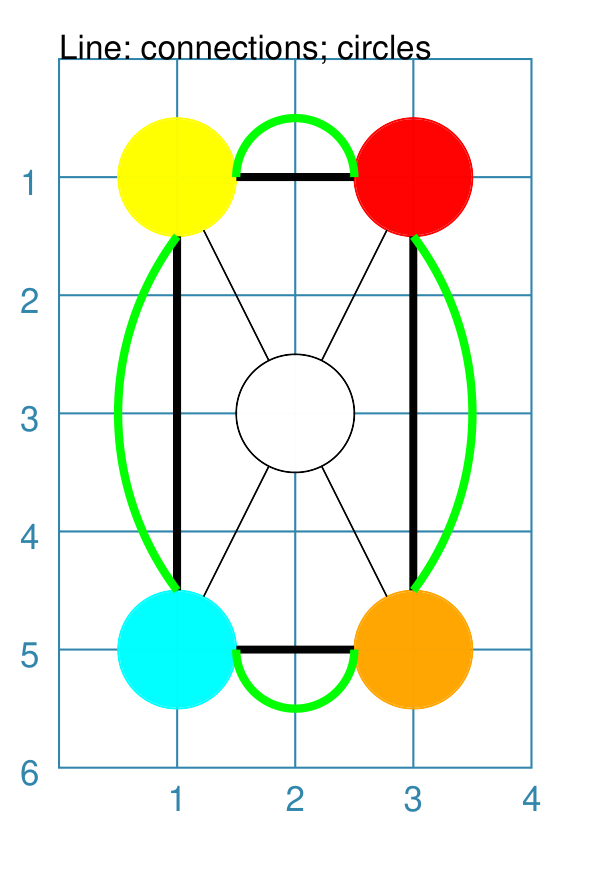
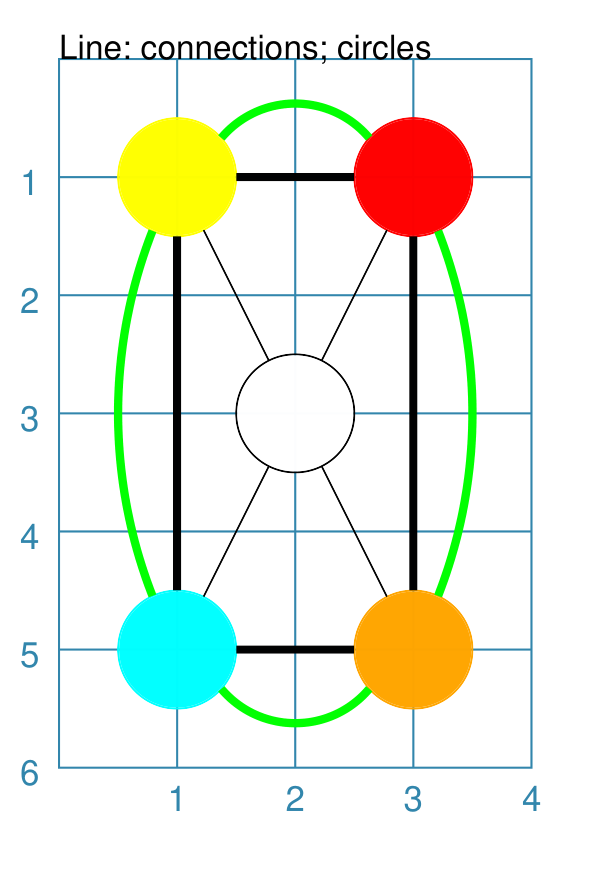
WIP on circle-to-circle connections

diff --git a/protograf/utils/connections.py b/protograf/utils/connections.py
@@ -2,9 +2,15 @@
 """
 Support functions for calculating connections for Lines/Polylines
 """
+# lib
+import math
+
+# local
+from protograf import globals
 from protograf.base import BaseShape
 from protograf.shapes_hexagon import HexShape
 from protograf.shapes_polygon import PolygonShape
+from protograf.shapes_utils import draw_line_curve
 from protograf.utils.messaging import feedback
 from protograf.utils.tools import _lower, validated_directions  # , _vprint
 from protograf.utils import geoms, tools
@@ -149,14 +155,28 @@ def get_rotation(centre_a: Point, centre_b: Point) -> tuple:
     return rotation_a, rotation_b
 
 
-def get_connections(shapes: list, connections_style) -> list:
-    """Get connection vertices."""
+def get_connections(shapes: list, connections_style: str, curve: float = None) -> tuple:
+    """Get connection vertices.
+
+    Returns:
+        tuple:
+            float: curve height
+            list: connection point tuples; start and end
+    """
     from protograf.shapes import CircleShape, DotShape  # avoid circular imports
 
+    def get_connection_curve(pt_x, centre_x, shape_x, rotation_x):
+        """recalculate curve height as `connection_curve`"""
+        straight_pt_x = geoms.point_on_circle(centre_x, shape_x._u.radius, rotation_x)
+        theta = geoms.circle_angle_between_points(pt_x, straight_pt_x, centre_x)
+        offset_height = shape_a._shape_radius * math.sin(math.radians(theta))
+        connection_curve = (globals.units * curve - abs(offset_height)) / globals.units
+        # print(f"{shape_x._shape_radius=} {theta=} {offset_height=} {connection_curve=}")
+        return connection_curve
+
     connections = []
-    # for idx, cshape in enumerate(shapes):
-    #     if idx == len(shapes) - 1:
-    #         continue
+    connection_curve = curve
+
     for idx in range(0, len(shapes) - 1):
         cshape = shapes[idx]
         if connections_style and _lower(connections_style) in [
@@ -173,8 +193,29 @@ def get_connections(shapes: list, connections_style) -> list:
             centre_b = shape_b._shape_centre  # circle/dot
             rotation_a, rotation_b = get_rotation(centre_a, centre_b)
             # print(f"*** connections {rotation_a=}, {rotation_b=}")
-            pt_a = geoms.point_on_circle(centre_a, shape_a._u.radius, rotation_a)
-            pt_b = geoms.point_on_circle(centre_b, shape_b._u.radius, rotation_b)
+            # print(f"*** connections {centre_a=} {shape_a._shape_radius=}")
+            # print(f"*** connections {centre_b=} {shape_b._shape_radius=}")
+            if curve:
+                # curve intersects
+                klargs, curve_centre, circle_centre, radius = draw_line_curve(
+                    None, centre_a, centre_b, curve, draw=False
+                )  # NOT drawn here
+                # print(f"*** connection curve {circle_centre=} {radius=} {centre_a=} {shape_a._shape_radius=}")
+                intersects_a = geoms.circle_intersections(
+                    circle_centre, radius, centre_a, shape_a._shape_radius
+                )
+                # print(f"*** connection curve {circle_centre=} {radius=} {centre_b=} {shape_b._shape_radius=}")
+                intersects_b = geoms.circle_intersections(
+                    circle_centre, radius, centre_b, shape_b._shape_radius
+                )
+                pt_a, pt_b = intersects_a[1], intersects_b[0]
+                # print(f"*** connection points {pt_a=}, {pt_b=}")
+                connection_curve = get_connection_curve(
+                    pt_a, centre_a, shape_a, rotation_a
+                )
+            else:
+                pt_a = geoms.point_on_circle(centre_a, shape_a._u.radius, rotation_a)
+                pt_b = geoms.point_on_circle(centre_b, shape_b._u.radius, rotation_b)
             connections.append((pt_a, pt_b))
 
         if isinstance(shape_a, (CircleShape, DotShape)) and not isinstance(
@@ -203,4 +244,5 @@ def get_connections(shapes: list, connections_style) -> list:
             pt_a = get_connection_point(shape_a[0], shape_a[1], shape_a[2])
             pt_b = get_connection_point(shape_b[0], shape_b[1], shape_b[2])
             connections.append((pt_a, pt_b))
-    return connections
+
+    return connection_curve, connections

diff --git a/protograf/shapes.py b/protograf/shapes.py
@@ -846,6 +846,11 @@ class DotShape(BaseShape):
             self.y_c = self._u.cy + self._o.delta_y
         return Point(self.x_c, self.y_c)
 
+    @cached_property
+    def _shape_radius(self) -> Point:
+        """Radius of Dot in points."""
+        return self.point_size
+
     def draw(self, cnv=None, off_x=0, off_y=0, ID=None, **kwargs):
         """Draw a Dot on a given canvas."""
         kwargs = self.kwargs | kwargs
@@ -1161,7 +1166,7 @@ class LineShape(BaseShape):
                 True,
             )
             return []
-        connections = get_connections(shapes, self.connections_style)
+        curve, connections = get_connections(shapes, self.connections_style, self.curve)
         for conn in connections:
             # ---- draw straight line
             if not self.curve:
@@ -1170,10 +1175,12 @@ class LineShape(BaseShape):
                 # ---- draw curve line
                 if kwargs.get("wave_height") or kwargs.get("wave_style"):
                     feedback("A connection cannot use a wave and curve together", True)
-                klargs, ccentre, tangent_angle = draw_line_curve(
-                    cnv, conn[0], conn[1], self.curve, **kwargs
+                klargs, curve_centre, circle_centre, radius = draw_line_curve(
+                    cnv, conn[0], conn[1], curve, **kwargs
                 )
-                kwargs["tangent"] = tangent_angle
+                kwargs["circle_centre"] = circle_centre
+                kwargs["circle_radius"] = radius
+                klargs["fill"] = None
             self.set_canvas_props(cnv=cnv, index=ID, **klargs)  # shape.finish()
             self.draw_arrow(cnv, conn[0], conn[1], **kwargs)
         return connections
@@ -1269,12 +1276,14 @@ class LineShape(BaseShape):
                 # ---- draw curve line
                 if kwargs.get("wave_height") or kwargs.get("wave_style"):
                     feedback("A line cannot use a wave and curve together", True)
-                klargs, ccentre, tangent_angle = draw_line_curve(
+                klargs, curve_centre, circle_centre, radius = draw_line_curve(
                     cnv, Point(x, y), Point(x_1, y_1), self.curve, **kwargs
                 )
-                # print(f'*** curve {tools._p2v(ccentre)} {tangent_angle=}')
-                ccx, ccy = ccentre.x, ccentre.y
-                kwargs["tangent"] = tangent_angle
+                kwargs["circle_centre"] = circle_centre
+                kwargs["circle_radius"] = radius
+                klargs["fill"] = None
+                ccx, ccy = curve_centre.x, curve_centre.y
+                # print(f"*** Line {tools._p2v(curve_centre)} {circle_centre=} {radius=}")
             self.set_canvas_props(cnv=cnv, index=ID, **klargs)  # shape.finish()
             # ---- draw arrowhead
             self.draw_arrow(cnv, Point(x, y), Point(x_1, y_1), **kwargs)
@@ -1493,7 +1502,7 @@ class PolylineShape(BasePolyShape):
                 True,
             )
             return None
-        connections = get_connections(self.connections, self.connections_style)
+        curve, connections = get_connections(self.connections, self.connections_style)
         return connections
 
     def draw(self, cnv=None, off_x=0, off_y=0, ID=None, **kwargs):

diff --git a/protograf/base.py b/protograf/base.py
@@ -3007,11 +3007,16 @@ class BaseShape:
     def draw_arrowhead(
         self, cnv, point_start: geoms.Point, point_end: geoms.Point, **kwargs
     ):
-        """Draw arrowhead at the end of a straight line segment
+        """Draw arrowhead at the end of a line segment
 
         Args:
             point_start: start point of line
             point_end: end point of line
+
+        Notes:
+            * for curved lines, the kwargs should include circle_centre and
+              circle_radius - these are used to recalculate the point_start
+              based on a chord for the circle
         """
         self.arrow_style = self.arrow_style or "triangle"  # default
         if self.arrow_position:
@@ -3051,11 +3056,16 @@ class BaseShape:
             kwargs["stroke"] = self.arrow_stroke or self.stroke
             kwargs["fill"] = self.arrow_fill or self.stroke
             kwargs["closed"] = True
-            if kwargs.get("tangent"):
-                deg = kwargs.get("tangent")
-            else:
-                deg, _ = geoms.angles_from_points(point_start, point_end)
-            # print(f'{deg=} {angle=} ')
+            # curved line?
+            ccentre = kwargs.get("circle_centre", None)
+            cradius = kwargs.get("circle_radius", None)
+            if ccentre and cradius:
+                # recalc point_start using chord on the circle
+                end_pts = geoms.circle_chord_endpoints(
+                    ccentre, cradius, point_end, head_height
+                )
+                point_start = end_pts[1]  # or 0
+            deg, _ = geoms.angles_from_points(point_start, point_end)
             if point_start.x != point_end.x:
                 kwargs["rotation"] = 180 + deg
                 kwargs["rotation_point"] = the_tip
@@ -3083,7 +3093,7 @@ class BaseShape:
                 case "circle" | "c":
                     pt4 = geoms.point_on_line(point_end, point_start, head_height / 2.0)
             # ---- draw and set props
-            # print(f'{vertexes=}' {kwargs=}')
+            # print(f'*** {vertexes=} {kwargs=}')
             self._debug(cnv, vertices=vertexes)  # needs: self.debug=True
             match _lower(self.arrow_style):
                 case "circle" | "c":
@@ -3439,7 +3449,7 @@ class BaseShape:
                 cx, cy = vertices[idx][0], vertices[idx][1]
                 if rotated:
                     compass, rotation = geoms.angles_from_points(centre, vertices[idx])
-                    # print(f"{idx} {compass=} {rotation=}")
+                    # print(f"*** {idx=} {compass=} {rotation=}")
                 else:
                     compass = 180.0
                 vshape.draw(

diff --git a/protograf/shapes_utils.py b/protograf/shapes_utils.py
@@ -126,8 +126,12 @@ def draw_line_curve(
     Returns:
         tuple:
             kwargs (modified for styled lines)
-            curve_point (Point)
-            tangent_angle (float)
+            curve_point (Point): middle of the curve (on the circle)
+            centre (Point): centre of circle used to draw curve
+            radius (Point): radius of circle used to draw curve
+
+    Notes:
+        * If kwargs contains `draw=False` the line will NOT be drawn
 
     """
     result = False
@@ -146,21 +150,25 @@ def draw_line_curve(
             line_centre, abs(u_curve_height), rotation + adjust
         )
         # feedback(f'***Line Curve Pt: {_p2v(curve_point)}')
-        ccentre, _ = geoms.centre_radius_from_points(start, curve_point, end)
-        # feedback(f'***Line Curve Centre: {_p2v(ccentre)}')
+        ccentre, radius = geoms.centre_radius_from_points(start, curve_point, end)
+        # feedback(f'***Line Curve Centre: {_p2v(ccentre)} {radius=}')
         if curve_height > 0:
             angle_width = geoms.circle_angle_between_points(start, end, ccentre)
         else:
             angle_width = geoms.circle_angle_between_points(end, start, ccentre)
         # feedback(f'***Line Curve: {start=} {end=} {u_curve_height=} {angle_width=}')
-        cnv.draw_sector(  # anti-clockwise from a pt; 90° default
-            (ccentre.x, ccentre.y), (begin.x, begin.y), angle_width, fullSector=False
-        )
+        if cnv and kwargs.get("draw", True):
+            cnv.draw_sector(  # anti-clockwise from a pt; 90° default
+                (ccentre.x, ccentre.y),
+                (begin.x, begin.y),
+                angle_width,
+                fullSector=False,
+            )
         result = True
     if result:
         klargs = copy.copy(kwargs)
         klargs["closed"] = False
         klargs["fill"] = None  # may want to allow this? curve_fill?
-        tangent_angle = geoms.circle_tangent_angle(ccentre, end)
-        return klargs, curve_point, tangent_angle
-    return kwargs, None, None
+        # tangent_angle = geoms.circle_tangent_angle(ccentre, end)
+        return kwargs, curve_point, ccentre, radius
+    return kwargs, None, None, None

diff --git a/protograf/shapes_circle.py b/protograf/shapes_circle.py
@@ -91,6 +91,11 @@ class CircleShape(BaseShape):
         length = math.pi * 2.0 * self._u.radius
         return self.points_to_value(length)
 
+    @cached_property
+    def _shape_radius(self) -> float:
+        """Circle radius length"""
+        return self._u.radius
+
     @property  # do NOT cache because centre needs to be changed!
     def _shape_centre(self) -> Point:
         """Circle centre in points."""

diff --git a/examples/core/customised_line.py b/examples/core/customised_line.py
@@ -132,7 +132,7 @@ Line(connections=[cy, cc, co],
      )
 cr = Circle(cx=1, cy=5, radius=0.5, fill_stroke="tomato")
 cb = Circle(cx=3, cy=5, radius=0.5, fill_stroke="aqua")
-Line(connections=[cr, cc], stroke="grey", stroke_width=0.1)
+# Line(connections=[cr, cc], stroke="grey", stroke_width=0.1)
 Line(connections=[cr, cc, cb],
      stroke="black",
      stroke_width=1,
